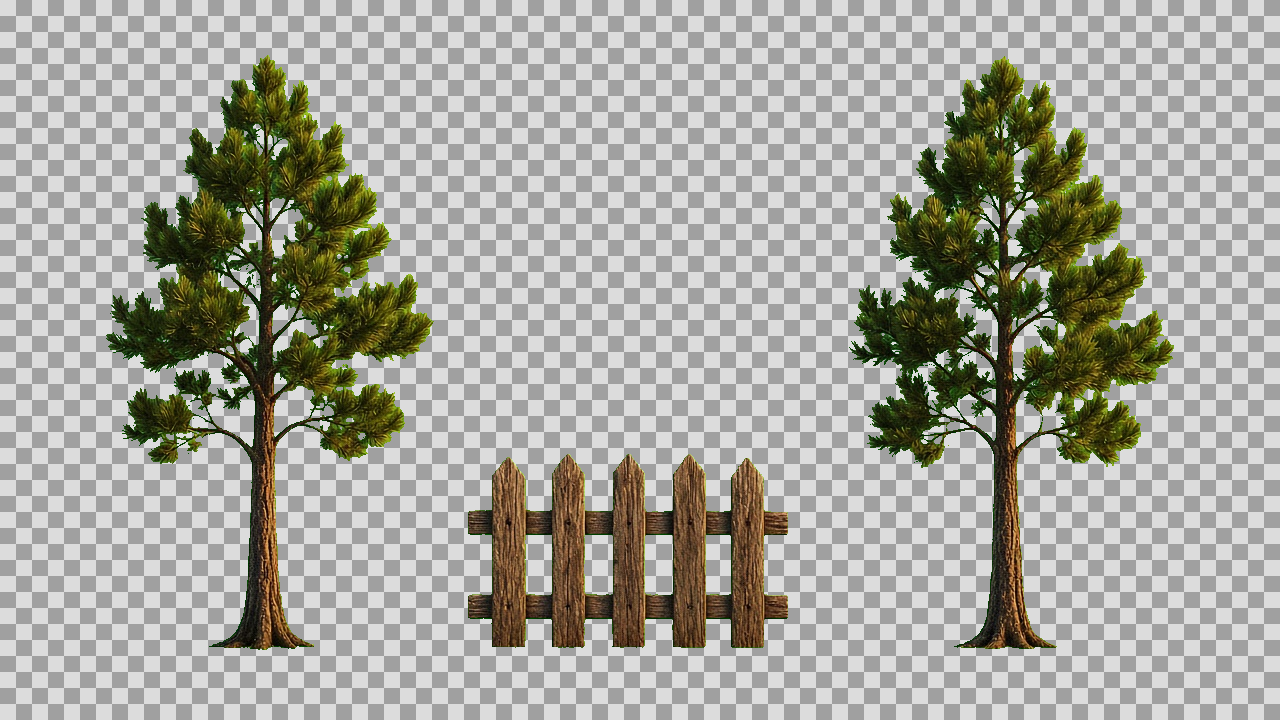
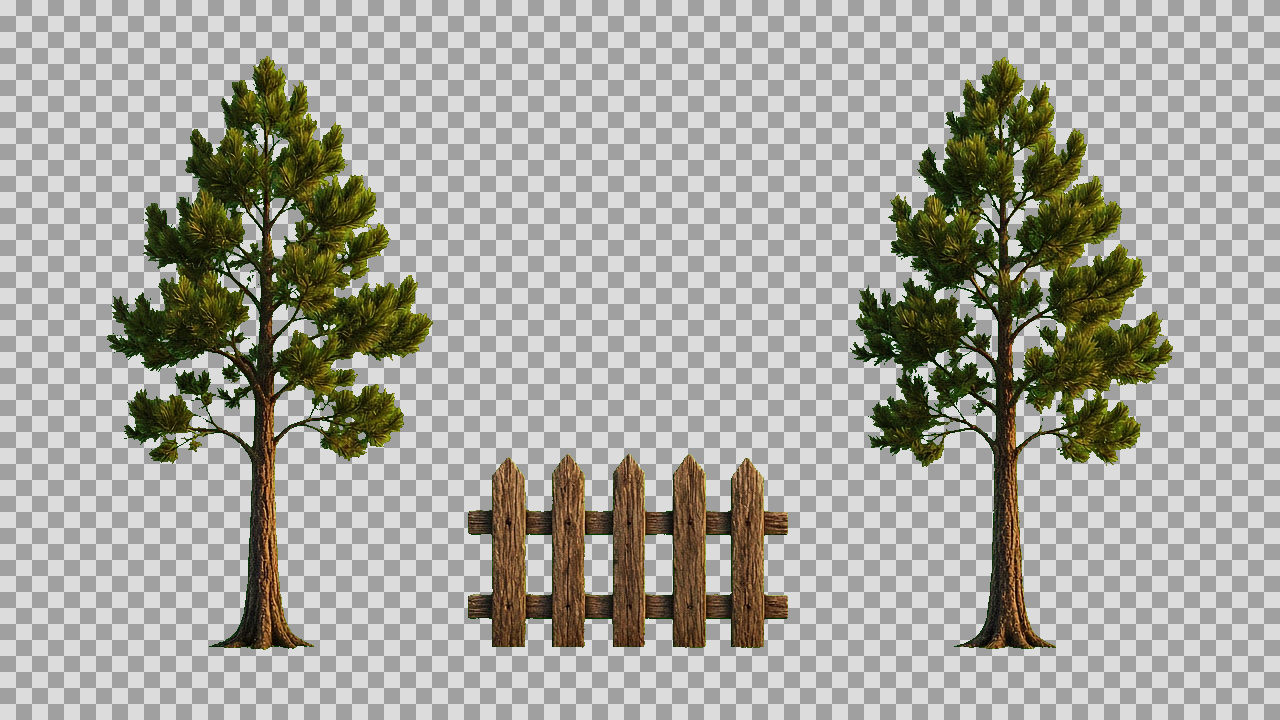
Add Game MVP interact zones, art scrub, and MCP verify docs.
Polish cutouts, align walk range with east path stub, and wire door/path E-interact with HUD toast for the cabin yard probe.

diff --git a/projects/06-game-factory/visual_capability_probe/cursor-demo/tools/cutout_pipeline.py b/projects/06-game-factory/visual_capability_probe/cursor-demo/tools/cutout_pipeline.py
@@ -1,7 +1,4 @@
-"""Cutout pipeline: chroma-green key + checkerboard QA (fast path).
-
-Optional: set USE_REMBG=1 to also run rembg (downloads large models).
-"""
+"""Cutout pipeline: chroma key (+ optional rembg) + checkerboard QA + fringe scrub."""
 from __future__ import annotations
 
 import os
@@ -23,20 +20,40 @@ JOBS = [
 ]
 
 
-def chroma_key(img: Image.Image, threshold: int = 55) -> Image.Image:
+def chroma_key(img: Image.Image, threshold: int = 45) -> Image.Image:
     rgba = img.convert("RGBA")
     pixels = rgba.load()
     w, h = rgba.size
     for y in range(h):
         for x in range(w):
             r, g, b, a = pixels[x, y]
-            if g > 85 and g >= r + threshold and g >= b + threshold:
+            # strong green-screen key
+            if g > 70 and g >= r + threshold and g >= b + threshold:
                 pixels[x, y] = (0, 0, 0, 0)
-            elif a < 32:
+            elif g > 140 and r < 120 and b < 120 and g > r and g > b:
                 pixels[x, y] = (0, 0, 0, 0)
-            elif a < 200:
-                # hard-ish edge for game composite (reduce halo)
-                pixels[x, y] = (r, g, b, 255 if a >= 128 else 0)
+            elif a < 40:
+                pixels[x, y] = (0, 0, 0, 0)
+            elif a < 210:
+                pixels[x, y] = (r, g, b, 255 if a >= 140 else 0)
+    return rgba
+
+
+def scrub_fringe(img: Image.Image) -> Image.Image:
+    """Zero RGB on transparent pixels; pull green fringe toward neighbor opaque."""
+    rgba = img.convert("RGBA")
+    px = rgba.load()
+    w, h = rgba.size
+    # pass 1: clear RGB where transparent
+    for y in range(h):
+        for x in range(w):
+            r, g, b, a = px[x, y]
+            if a == 0:
+                px[x, y] = (0, 0, 0, 0)
+            elif a > 0 and g > r + 25 and g > b + 25 and g > 100:
+                # desaturate leftover green fringe
+                gray = int(0.3 * r + 0.4 * g + 0.3 * b)
+                px[x, y] = (gray, gray, min(gray, b), a)
     return rgba
 
 
@@ -56,7 +73,8 @@ def maybe_rembg(img: Image.Image) -> Image.Image:
         return img
     from rembg import remove, new_session
 
-    session = new_session("u2net")
+    model = os.environ.get("REMBG_MODEL", "u2net")
+    session = new_session(model)
     rgb = Image.new("RGB", img.size, (0, 255, 0))
     rgb.paste(img.convert("RGB"), mask=img.split()[-1])
     return remove(rgb, session=session).convert("RGBA")
@@ -74,7 +92,8 @@ def process_one(src_name: str, dst_name: str, use_chroma: bool) -> None:
         out = chroma_key(img) if use_chroma else img
         out = maybe_rembg(out)
         if use_chroma:
-            out = chroma_key(out, threshold=50)
+            out = chroma_key(out, threshold=40)
+        out = scrub_fringe(out)
 
     OUT.mkdir(parents=True, exist_ok=True)
     QA.mkdir(parents=True, exist_ok=True)
@@ -85,11 +104,11 @@ def process_one(src_name: str, dst_name: str, use_chroma: bool) -> None:
     board.alpha_composite(out)
     qa_path = QA / f"checker_{dst_name}"
     board.convert("RGB").save(qa_path, quality=92)
-    # crude QA: count non-near-green opaque pixels ratio
     print(f"OK {src_name} -> {out_path.name} qa={qa_path.name} size={out.size}")
 
 
 def main() -> int:
+    print(f"USE_REMBG={os.environ.get('USE_REMBG', '0')} model={os.environ.get('REMBG_MODEL', 'u2net')}")
     for job in JOBS:
         process_one(*job)
     return 0

diff --git a/projects/06-game-factory/visual_capability_probe/cursor-demo/docs/ACCEPTANCE.md b/projects/06-game-factory/visual_capability_probe/cursor-demo/docs/ACCEPTANCE.md
@@ -1,31 +1,24 @@
-# ACCEPTANCE — visual_capability_probe / cursor_demo
+# ACCEPTANCE — Game MVP（在探针之上）
 
-Playbook: `docs/playbooks/PB-Game-Visual.md`  
-Engine: Godot 4.6 · GL Compatibility · 1280×720
-
-## Spec (grill locked)
-
-- 横版 + 重力 + 水平地面
-- 山间木屋前院 · 黄昏
-- 成年男性旅人 · 静止站立 + 平移
-- 远景 / 木屋中景 / 近景遮挡 / 角色
-- Cursor 生图 + 色键抠图（绿幕）+ 棋盘格 QA
+Playbook 基线：`PB-Game-Visual`  
+本阶段增量：美术 scrub、脚底对齐、门/山路交互、东侧小路占位、Verifier 文档
 
 ## Checklist
 
 | 项 | 结果 | 证据 |
 |----|------|------|
-| 主场景可运行无致命错误 | PASS | MCP `get_errors` → 0 |
-| ≥3 层分层 / 前景可遮挡 | PASS | Far 视差 + MidCabin 世界空间 + Foreground z=20；截图见分层 |
-| Player 独立 instance | PASS | `res://scenes/player.tscn` instanced in main |
-| 左右移动 + 地面 | PASS | x 360→720，y=420 稳定，velocity.y=0 |
-| HUD 与世界分离 | PASS | CanvasLayer HUD 显示 `pos:` |
-| 抠图棋盘格 | PASS | `assets/qa/checker_*.png` |
+| 探针项仍成立 | 见下轮 MCP | 分层 / instance / 移动 |
+| 前景绿边减轻 | PASS（色键+scrub） | `assets/qa/checker_fg_props.png` 重跑 |
+| 门交互 E | PASS | DoorZone + toast |
+| 山路交互 E | PASS | PathZone + 东侧小路占位 |
+| Verifier 步骤 | PASS | `docs/VERIFY_MCP.md` |
 
-## Layer notes
+## Controls
 
-- Far：`ParallaxBackground`（慢卷）
-- Mid cabin：世界空间 `MidCabin`（与角色 1:1，避免视差卷走木屋）
-- Foreground：高 `z_index` 遮挡
-- rembg 大模型下载过慢，本探针用绿幕色键 + 硬边 alpha；可选 `USE_REMBG=1` 再跑 `tools/cutout_pipeline.py`
-- 角色 `min_x/max_x` 限制在木屋前院可视范围
+- A/D 或方向键移动
+- E 交互（靠近门或山路标记时）
+
+## Notes
+
+- rembg 模型若已下载：`$env:USE_REMBG=1; python tools/cutout_pipeline.py`
+- 东侧小路为占位（Polygon2D），完整第二屏美术下一迭代

diff --git a/projects/06-game-factory/visual_capability_probe/cursor-demo/docs/VERIFY_MCP.md b/projects/06-game-factory/visual_capability_probe/cursor-demo/docs/VERIFY_MCP.md
@@ -1,0 +1,26 @@
+# VERIFY_MCP — Game MVP（cursor_demo）
+
+在 Godot 已打开本工程且 MCP Connected 时，Agent / 人工可按此环验收。
+
+## 最小环
+
+1. `run_scene({ scene: "res://scenes/main.tscn", wait_for_runtime: true })`
+2. `get_errors` → 应为 0
+3. `query_runtime_node(/root/Main/Player, [global_position])` 记下起点
+4. `send_input` `move_right` pressed → `wait(400)` → release  
+   断言：`x` 增大，`y` 大致稳定，`velocity.y≈0`
+5. 走到门区 / 山路区：HUD 出现「按 E …」  
+   - 本机：按 E  
+   - MCP：`call_method try_interact` → `ToastLabel.text` 非空（或 `show_toast` 直调）
+6. `take_screenshot` 存证
+7. `stop_scene`
+
+## 注意
+
+- MCP 的 `InputEventAction` 可能粘滞；开局 `player._ready` 会 release 移动键
+- 验收交互优先用 `try_interact`，本机用手按 E
+
+## 本机手测
+
+- F5；A/D 移动；靠近门/山路看提示；E 交互
+- 看前景树是否仍有明显绿边（rembg 未就绪时以色键+scrub 为准）

diff --git a/knowledge/godot/README.md b/knowledge/godot/README.md
@@ -4,5 +4,7 @@
 
 - **事实：** Cursor 生图 + 绿幕色键可快速入库；rembg 默认 bria 模型约 1GB，本机下载过慢不宜阻塞探针。
 - **事实：** CharacterBody2D 会走出 StaticBody2D 平台边缘坠落；探针地面需远宽于可走范围。
+- **事实：** MCP `call_method` 改脚本后，Area2D 需重新 `attach_script` / 重开场景，否则可能仍跑旧脚本体。
 - **规律：** Verifier 必须同时看 `position.x` 变化与 `y`/`velocity.y` 稳定，避免“移动了但已掉出世界”的假阳性。
 - **规律：** 写实精灵导入用 Linear + Fix Alpha Border；棋盘格预览先于入库。
+- **规律：** HUD toast 用 `show_toast(text, seconds)` 且 seconds 设下限；交互区改完脚本要重挂。
